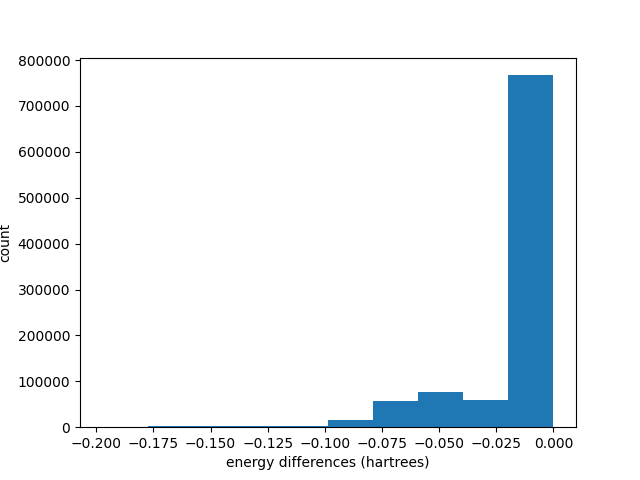
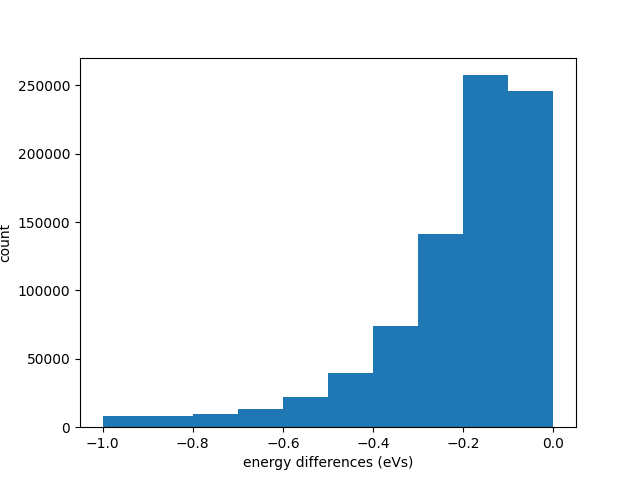
.

diff --git a/gen_visuals/histogram.py b/gen_visuals/histogram.py
@@ -7,7 +7,7 @@ NBINS = 20
 with open('./data-nacs.json') as f:
     data_orig = json.load(f)
     orig = np.abs(np.asarray(data_orig['nacs'])).mean(axis=(1, 2))
-    orig_energies = np.asarray(data_orig['energy_differences'])
+    orig_energies = np.asarray(data_orig['energy_differences']) * 27.2114
 
 # with open('./out.json') as f:
     # data_sampled = json.load(f)
@@ -15,8 +15,8 @@ with open('./data-nacs.json') as f:
     # sampled = np.stack([np.asarray(sample['e_diff']) for sample in data_sampled], axis=0)
 
 fig, axs = plt.subplots()
-axs.hist(orig_energies)
-axs.set_xlabel('energy differences (hartrees)')
+axs.hist(orig_energies, range=(-1.0, 0.0))
+axs.set_xlabel('energy differences (eVs)')
 axs.set_ylabel('count')
 # plt.show()
 plt.savefig('e_diff.png')

diff --git a/gen_visuals/scatter.py b/gen_visuals/scatter.py
@@ -5,7 +5,7 @@ from scipy.stats import gaussian_kde
 
 with open('./data-nacs.json', 'r') as f:
     data = json.load(f)
-    e_diffs = data['energy_differences']
+    e_diffs = np.asarray(data['energy_differences']) * 27.2114
     avg_nac_elems = np.abs(np.asarray(data['nacs'])).mean(axis=(1, 2))
 
 # xy = np.vstack([e_diffs, avg_nac_elems])
@@ -13,5 +13,6 @@ with open('./data-nacs.json', 'r') as f:
     
 # plt.scatter(e_diffs, avg_nac_elems, c=z, s=100)
 plt.scatter(e_diffs, avg_nac_elems)
+plt.xlim(-0.3, 0.0)
 # plt.show()
 plt.savefig('e_diff_vs_avg_nac.png')
